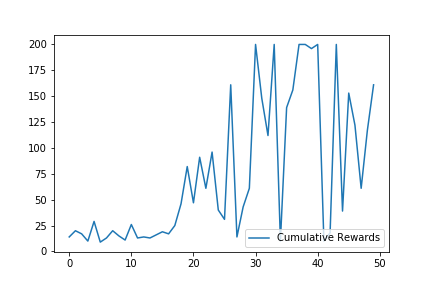
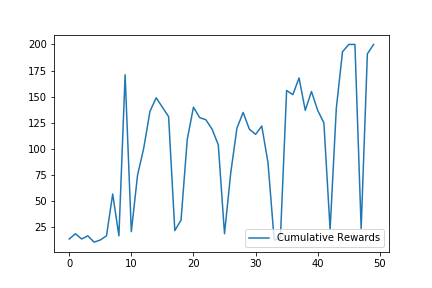
Updated Callbacks.run to accept objs instead of lists.

diff --git a/rltoolkit/callbacks/callbacks.py b/rltoolkit/callbacks/callbacks.py
@@ -14,14 +14,20 @@ class Graph:
       'cumulative': [],
     }
   
-  def run(self,obj,rewards):
+  def run(self,obj,params):
     """
       Saves rewards to memory and stores for graphing later.
 
       # Arguments
         obj: A RL Method. Used to acquire methods network instance variable.
-        rewards: list of rewards obtained during an episode.
+        params: Dictionary that contains pertinent information for callbacks.
+          Typically contains list of rewards for an episode and validation rewards.
     """
+    rewards = params.get('rewards')
+
+    if not rewards:
+      raise ValueError('No `rewards` in Parameters for Graph callback', params)
+
     min_r = min(rewards)
     max_r = max(rewards)
     avg_r = sum(rewards)/len(rewards)
@@ -95,17 +101,24 @@ class Checkpoint:
     self.filename = filename
     self.max_reward = None
     self.best_model = None
+    self.max_v_reward = None
     self.save_weights_only = save_weights_only
 
-  def run(self,obj,rewards):
+  def run(self,obj,params):
     """
       Determines if the best model stored has been improved.
       If so, saves the new best model. 
 
       # Arguments
         obj: A RL Method. Used to acquire methods network instance variable.
-        rewards: list of rewards obtained during an episode.
+        params: Dictionary that contains pertinent information for callbacks.
+          Typically contains list of rewards for an episode and validation rewards.
     """
+    rewards = params.get('rewards')
+    if not rewards:
+      raise ValueError('No `rewards` in Parameters for Checkpoint callback', params)
+    validations = params.get('validations') #is permissible to not be included
+
     updated = False #save again?
     if self.max_reward is None:
       updated = True
@@ -114,9 +127,16 @@ class Checkpoint:
     else:
       reward = sum(rewards)
       if reward >= self.max_reward:
-        updated = True
-        self.max_reward = reward
-        self.best_model = obj.nn
+        if validations is not None:
+          v_reward = sum(validations)
+          if v_reward >= self.max_v_reward:
+            updated = True
+            self.max_reward = reward
+            self.best_model = obj.nn
+        else:  
+          updated = True
+          self.max_reward = reward
+          self.best_model = obj.nn
     
     if updated:
       if self.save_weights_only:

diff --git a/rltoolkit/methods/experimental/coga/coga.py b/rltoolkit/methods/experimental/coga/coga.py
@@ -6,11 +6,12 @@ from worker import Worker
 class COGA:
 
   def __init__(self, nn, num_colonies=50, num_workers=75, alpha=0.01):
-    #Assert num_workers >= num_colonies
+    #Assert num_workers >= num_colonies and >=0 and an Int
     self.pop_size = num_colonies
     self.colonies = [Colony(nn) for _ in range(num_colonies)]
     self.workers  = [Worker(nn, alpha) for _ in range(num_workers)]
     self.pyramid  =  self._create_pyramid()
+    self.nn = self.colonies[0].nn
 
   def train(self, env, generations, elites=None, 
             sharpness=1, goal=None, patience=25, 
@@ -103,9 +104,14 @@ class COGA:
 
         self._assign_workers()
       
+      self.nn = self.colonies[ranked[0][0]].nn
       if callbacks:
-        for cb in callbacks:
-          cb.run(self,[ranked[i][1] for i in range(self.pop_size)])
+        params = {
+          'rewards':     [score[1] for score in ranked], #res
+          'validations': [score[2] for score in ranked], #val
+        }
+        for callback in callbacks:
+          callback.run(self,params)
 
       if goal_met:
         break

diff --git a/rltoolkit/methods/dql/dql.py b/rltoolkit/methods/dql/dql.py
@@ -73,8 +73,12 @@ class DQL:
           f'Time: {t}'
         print(results)
       
+      params = {
+        'rewards': rewards,
+      }
       for callback in callbacks:
-        callback.run(self, rewards)
+        callback.run(self, params)
+
       self.epsilon = max(self.epsilon*self.epsilon_decay, self.min_epsilon)
     
     return nn
